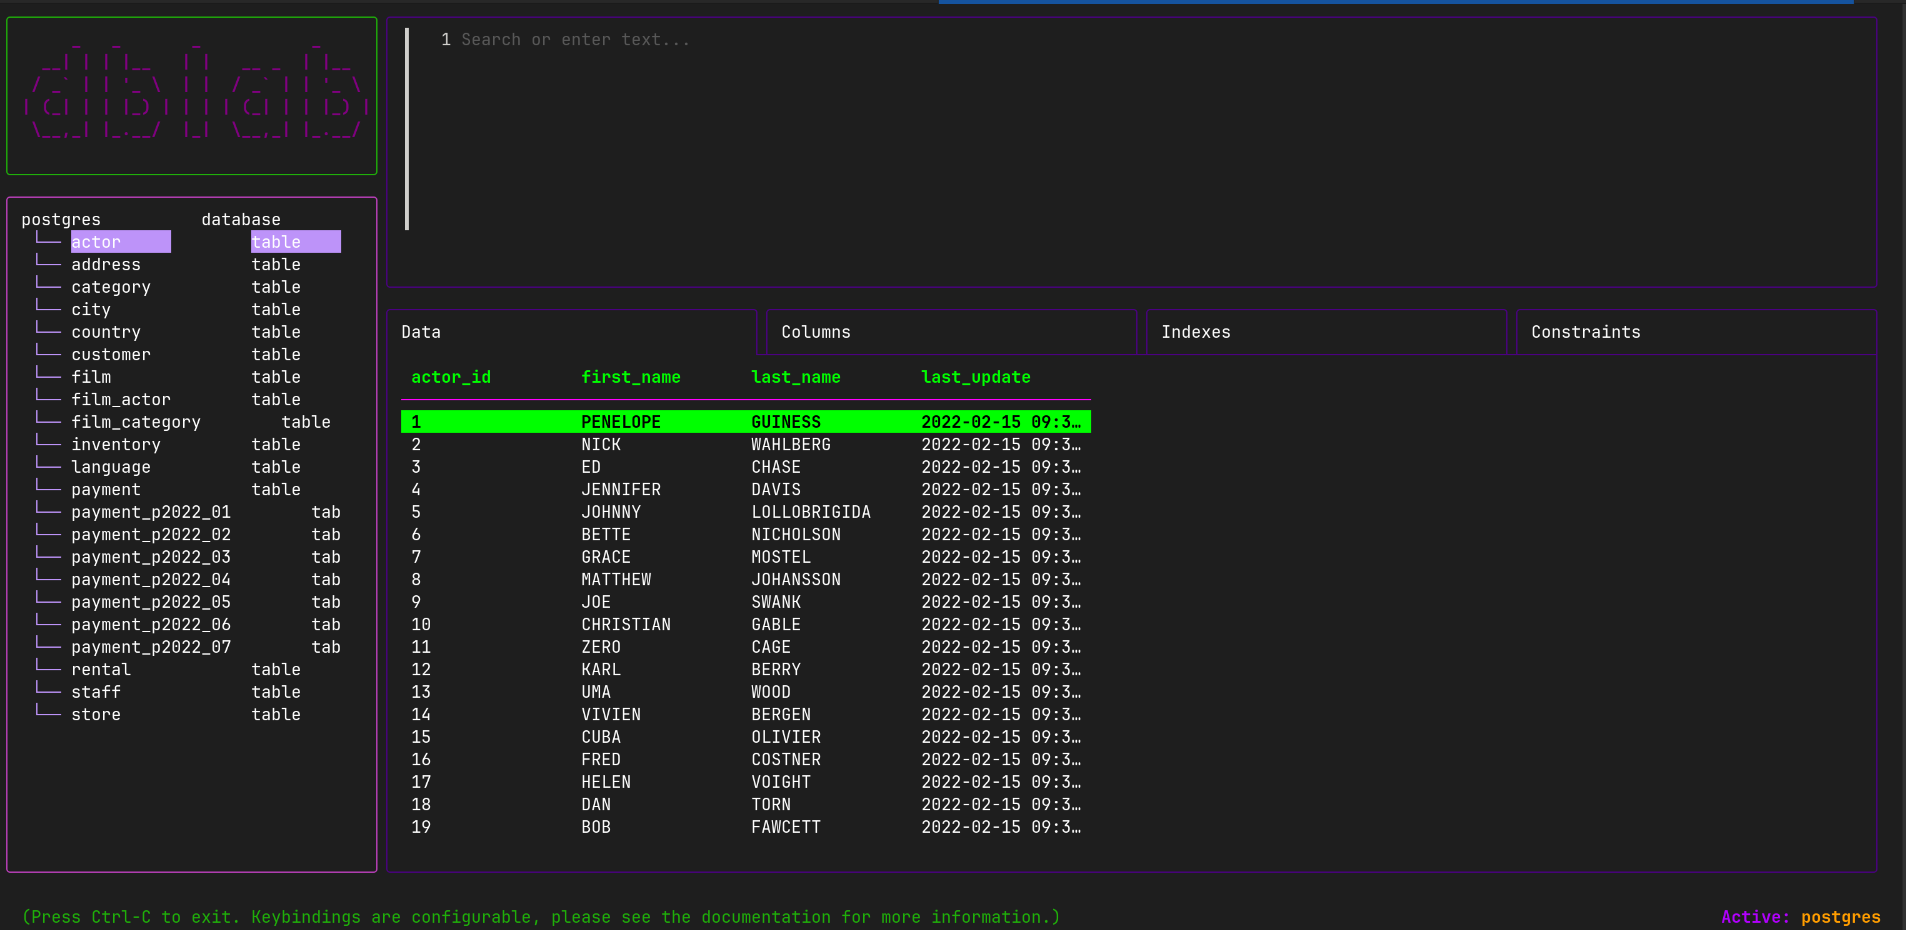
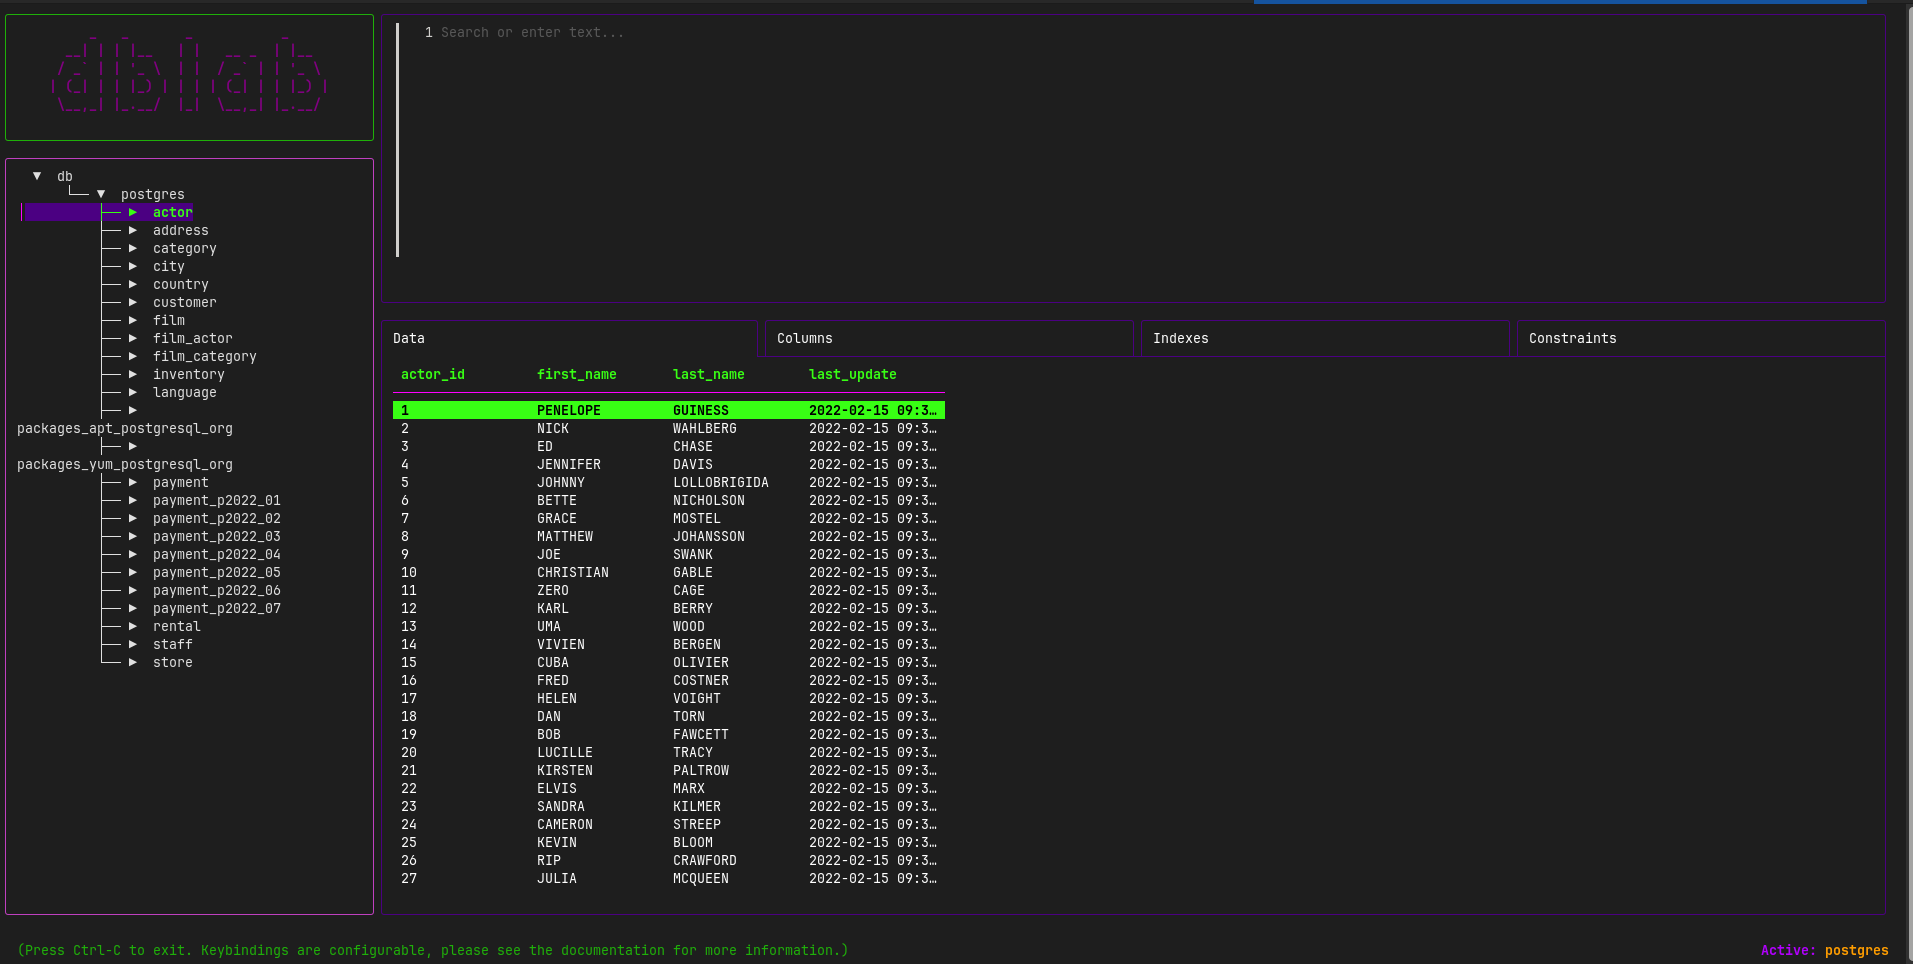
feat: migrate to treeview (#296)
* migrate to treeview

* fix error not checked errors

* omit type at sideViewContent declaration

* add icons

* update tree image

* remove a comment

Changed region(s): [[0.0, 0.0, 1.0, 0.9978], [0.1238, 0.7172, 0.1548, 0.7796]]

diff --git a/pkg/bubbletui/bubbletui.go b/pkg/bubbletui/bubbletui.go
@@ -1,10 +1,12 @@
 package bubbletui
 
 import (
+	"context"
 	"fmt"
 	"io"
 	"strings"
 
+	"github.com/Digital-Shane/treeview"
 	"github.com/charmbracelet/bubbles/key"
 	"github.com/charmbracelet/bubbles/list"
 	"github.com/charmbracelet/bubbles/table"
@@ -15,7 +17,6 @@ import (
 	"github.com/common-nighthawk/go-figure"
 	"github.com/danvergara/dblab/pkg/client"
 	"github.com/danvergara/dblab/pkg/command"
-	"github.com/savannahostrowski/tree-bubble"
 )
 
 type focusState int
@@ -211,8 +212,8 @@ type Model struct {
 	viewport        viewport.Model
 	editor          textarea.Model
 	tablesList      list.Model
-	dbTree          tree.Model
 	sidebarViewport viewport.Model
+	dbTree          *treeview.TuiTreeModel[string]
 
 	// Manages the focus on the app.
 	focus focusState
@@ -280,7 +281,7 @@ func (m Model) Update(msg tea.Msg) (tea.Model, tea.Cmd) {
 		m.titleHeight = availableHeight/6 - 2
 		m.titleWidth = m.leftWidth - 2
 
-		m.sidebarViewportHeight = availableHeight - m.titleHeight - 4
+		m.sidebarViewportHeight = availableHeight - m.titleHeight - 2
 		m.sidebarViewportWidth = m.leftWidth - 2
 
 		m.editorWidth = m.rightWidth - 4
@@ -290,7 +291,9 @@ func (m Model) Update(msg tea.Msg) (tea.Model, tea.Cmd) {
 		m.resultSetWidth = m.rightWidth - 4
 
 		m.tablesList.SetSize(m.sidebarViewportWidth, m.sidebarViewportHeight-2)
-		m.dbTree.SetSize(m.sidebarViewportWidth, m.sidebarViewportHeight-2)
+		if m.dbTree != nil {
+			m.dbTree = m.newTuiTreeModel(m.dbTree.Tree, m.sidebarViewportWidth, m.sidebarViewportHeight-2)
+		}
 
 		m.sidebarViewport.Height = m.sidebarViewportHeight - 4
 		m.sidebarViewport.Width = m.sidebarViewportWidth - 4
@@ -298,9 +301,7 @@ func (m Model) Update(msg tea.Msg) (tea.Model, tea.Cmd) {
 		m.editor.SetWidth(m.editorWidth - 4)
 		m.editor.SetHeight(m.editorHeight - 2)
 
-		if m.c.ShowDataCatalog() {
-			m.sidebarViewport.SetContent(m.dbTree.View())
-		} else {
+		if !m.c.ShowDataCatalog() {
 			m.sidebarViewport.SetContent(m.tablesList.View())
 		}
 
@@ -320,27 +321,22 @@ func (m Model) Update(msg tea.Msg) (tea.Model, tea.Cmd) {
 		case tea.KeyEnter:
 			if m.focus == focusList {
 				if m.c.ShowDataCatalog() {
-					cursor := m.dbTree.Cursor()
-					nodes := m.dbTree.Nodes()
-					path := getPathToCursor(nodes, cursor)
-					if len(path) == 0 {
-						return m, nil
-					}
-					targetNode := path[len(path)-1]
-
-					switch targetNode.Desc {
-					case "database":
-						m.c.SetActiveDatabase(targetNode.Value)
-						m.activeDatabase = targetNode.Value
-						if len(targetNode.Children) == 0 {
-							return m, m.fetchTablesCmd(targetNode.Value)
-						} else {
-							currentNodes := m.dbTree.Nodes()
-							updatedNodes := injectTablesIntoTree(currentNodes, targetNode.Value, []string{})
-							m.dbTree.SetNodes(updatedNodes)
+					selectedNode := m.dbTree.GetFocusedNode()
+					if selectedNode != nil && selectedNode.Data() != nil {
+						switch *selectedNode.Data() {
+						case "database":
+							m.c.SetActiveDatabase(selectedNode.Name())
+							m.activeDatabase = selectedNode.Name()
+							if selectedNode.IsExpanded() {
+								selectedNode.Collapse()
+								return m, nil
+							} else {
+								selectedNode.Expand()
+								return m, m.fetchTablesCmd(selectedNode.Name())
+							}
+						case "table":
+							return m, m.runTableMetadata(selectedNode.Name())
 						}
-					case "table":
-						return m, m.runTableMetadata(targetNode.Value)
 					}
 				} else {
 					return m, m.runTableMetadata("")
@@ -399,11 +395,16 @@ func (m Model) Update(msg tea.Msg) (tea.Model, tea.Cmd) {
 		case key.Matches(msg, m.bindings.PageTop):
 			if m.focus == focusList {
 				if m.c.ShowDataCatalog() {
-					for m.dbTree.Cursor() > 0 {
-						m.dbTree, _ = m.dbTree.Update(tea.KeyMsg{Type: tea.KeyUp})
-					}
+					ctx := context.Background()
 
-					m.syncTreeToViewport()
+					for nodeInfo, err := range m.dbTree.AllVisible(ctx) {
+						if err != nil {
+							break
+						}
+
+						_, _ = m.dbTree.SetFocusedID(ctx, nodeInfo.Node.ID())
+						break
+					}
 					return m, nil
 				} else {
 					m.tablesList.Select(0)
@@ -422,12 +423,23 @@ func (m Model) Update(msg tea.Msg) (tea.Model, tea.Cmd) {
 			}
 			if m.focus == focusList {
 				if m.c.ShowDataCatalog() {
-					totalNodes := m.dbTree.NumberOfNodes()
-					if totalNodes > 0 {
-						m.dbTree.SetCursor(totalNodes - 1)
+					ctx := context.Background()
+
+					var bottomNodeID string
+					var found bool
+
+					for nodeInfo, err := range m.dbTree.AllVisible(ctx) {
+						if err != nil {
+							break
+						}
+
+						bottomNodeID = nodeInfo.Node.ID()
+						found = true
 					}
 
-					m.syncTreeToViewport()
+					if found {
+						_, _ = m.dbTree.SetFocusedID(ctx, bottomNodeID)
+					}
 					return m, nil
 				} else {
 					totalItems := len(m.tablesList.Items())
@@ -453,9 +465,13 @@ func (m Model) Update(msg tea.Msg) (tea.Model, tea.Cmd) {
 		switch m.focus {
 		case focusList:
 			if m.c.ShowDataCatalog() {
-				m.dbTree, cmd = m.dbTree.Update(msg)
-				m.sidebarViewport.SetContent(m.dbTree.View())
-				m.syncTreeToViewport()
+				if m.dbTree != nil {
+					updatedModel, treeCmd := m.dbTree.Update(msg)
+					if newTreeModel, ok := updatedModel.(*treeview.TuiTreeModel[string]); ok {
+						m.dbTree = newTreeModel
+					}
+					cmd = treeCmd
+				}
 			} else {
 				m.tablesList, cmd = m.tablesList.Update(msg)
 				m.sidebarViewport.SetContent(m.tablesList.View())
@@ -511,15 +527,20 @@ func (m Model) Update(msg tea.Msg) (tea.Model, tea.Cmd) {
 		m.viewport.SetContent(styledError)
 		m.viewport.GotoTop()
 	case tablesFetchedMsg:
-		currentNodes := m.dbTree.Nodes()
-		updatedNodes := injectTablesIntoTree(currentNodes, msg.dbName, msg.tables)
-		m.dbTree.SetNodes(updatedNodes)
-		m.sidebarViewport.SetContent(m.dbTree.View())
+		selectedNode := m.dbTree.GetFocusedNode()
+		if selectedNode != nil {
+			tables := make([]*treeview.Node[string], len(msg.tables))
+			for i, t := range msg.tables {
+				tables[i] = treeview.NewNode(t, t, "table")
+			}
+			selectedNode.SetChildren(tables)
+		}
 	case tablesFetchError:
 		errorText := fmt.Sprintf("❌ failed to retrieve the current database tables\n\n%s", msg.err.Error())
 		styledError := errorStyle.Render(errorText)
 		m.viewport.SetContent(styledError)
 		m.viewport.GotoTop()
+
 	}
 
 	return m, tea.Batch(cmds...)
@@ -578,7 +599,11 @@ func (m Model) View() string {
 		Align(lipgloss.Center).
 		Render(tightBlock)
 
-	styledTableList := tablesListStyle.BorderForeground(listBorder).Width(m.sidebarViewportWidth).Height(m.sidebarViewportHeight - 2).Render(m.sidebarViewport.View())
+	sideViewContent := m.sidebarViewport.View()
+	if m.c.ShowDataCatalog() {
+		sideViewContent = m.dbTree.View()
+	}
+	styledTableList := tablesListStyle.BorderForeground(listBorder).Width(m.sidebarViewportWidth).Height(m.sidebarViewportHeight - 2).Render(sideViewContent)
 
 	styledEditor := editorStyle.BorderForeground(textAreaBorder).Width(m.editorWidth).Height(m.editorHeight).Render(m.editor.View())
 	styledResultSet := resultSetStyle.BorderForeground(tableBorder).Width(m.resultSetWidth).Height(m.resultSetHeight).UnsetBorderTop()
@@ -726,23 +751,18 @@ func (m *Model) setupDatabaseCatalog() error {
 		if err != nil {
 			return err
 		}
-		nodes := make([]tree.Node, len(dbs))
-		for i, db := range dbs {
-			nodes[i] = tree.Node{Value: db, Desc: "database"}
+		root := treeview.NewNode("db", "db", "root")
+		for _, db := range dbs {
+			root.AddChild(treeview.NewNode(db, db, "database"))
 		}
 
-		m.dbTree = tree.New(nodes, m.sidebarViewportWidth, m.sidebarViewportHeight)
+		root.Expand()
 
-		// Override the Down binding.
-		m.dbTree.KeyMap.Down = key.NewBinding(
-			key.WithKeys("down", "j", "s"),
-			key.WithHelp("↓/j/s", "move down"),
-		)
+		treeRoot := treeview.NewTree([]*treeview.Node[string]{root}, treeview.WithProvider(createCyberpunkProvider()))
 
-		// Override the Up binding.
-		m.dbTree.KeyMap.Up = key.NewBinding(
-			key.WithKeys("up", "k", "w"),
-			key.WithHelp("↑/k/w", "move up"),
+		m.dbTree = treeview.NewTuiTreeModel(treeRoot,
+			treeview.WithTuiWidth[string](0),
+			treeview.WithTuiHeight[string](80),
 		)
 	} else {
 		ts, err := m.c.ShowTables()
@@ -868,16 +888,19 @@ func (m *Model) fetchTablesCmd(dbName string) tea.Cmd {
 	}
 }
 
-func (m *Model) syncTreeToViewport() {
-	m.sidebarViewport.SetContent(m.dbTree.View())
+func (m *Model) newTuiTreeModel(tree *treeview.Tree[string], width, height int) *treeview.TuiTreeModel[string] {
+	// Create custom key map to avoid key conflicts
+	keyMap := treeview.DefaultKeyMap()
+	keyMap.SearchStart = []string{"/"}
+	keyMap.Up = []string{"up", "k", "w"}
+	keyMap.Down = []string{"down", "j", "s"}
 
-	cursor := m.dbTree.Cursor()
-	if cursor >= m.sidebarViewport.YOffset+m.sidebarViewport.Height {
-		m.sidebarViewport.SetYOffset(cursor - m.sidebarViewport.Height + 1)
-	}
-	if cursor < m.sidebarViewport.YOffset {
-		m.sidebarViewport.SetYOffset(cursor)
-	}
+	return treeview.NewTuiTreeModel(tree,
+		treeview.WithTuiWidth[string](width),
+		treeview.WithTuiHeight[string](height),
+		treeview.WithTuiKeyMap[string](keyMap),
+		treeview.WithTuiDisableNavBar[string](true),
+	)
 }
 
 func populateTableHeaders(headers []string) []table.Column {
@@ -912,57 +935,27 @@ func populateTableRows(data [][]string) []table.Row {
 	return convertedRows
 }
 
-// getPathToCursor returns the full path of nodes from the Root down to the Cursor position.
-func getPathToCursor(nodes []tree.Node, targetCursor int) []tree.Node {
-	var currentPath []tree.Node
-	var currentIndex int
+func createCyberpunkProvider() *treeview.DefaultNodeProvider[string] {
+	return treeview.NewDefaultNodeProvider(
+		treeview.WithIconRule(treeview.PredIsExpanded[string](), "▼"),
+		treeview.WithDefaultIcon[string]("▶"),
+		treeview.WithStyleRule(
+			func(n *treeview.Node[string]) bool { return true },
+			lipgloss.NewStyle().
+				Foreground(whiteText).
+				PaddingLeft(2),
 
-	var traverse func(currentNodes []tree.Node) bool
-
-	traverse = func(currentNodes []tree.Node) bool {
-		for _, node := range currentNodes {
-			currentPath = append(currentPath, node)
-
-			if currentIndex == targetCursor {
-				return true
-			}
-
-			currentIndex++
-
-			if len(node.Children) > 0 {
-				if traverse(node.Children) {
-					return true // The target was found deep inside this branch
-				}
-			}
-
-			currentPath = currentPath[:len(currentPath)-1]
-		}
-		return false
-	}
-
-	traverse(nodes)
-	return currentPath
-}
-
-// injectTablesIntoTree traverses the graph to find a not which is the database of interest to add tables to it.
-func injectTablesIntoTree(nodes []tree.Node, targetDB string, tables []string) []tree.Node {
-	for i := range nodes {
-
-		if nodes[i].Desc == "database" && nodes[i].Value == targetDB {
-
-			var newChildren []tree.Node
-			for _, tableName := range tables {
-				newChildren = append(newChildren, tree.Node{
-					Value: tableName,
-					Desc:  "table",
-				})
-			}
-
-			nodes[i].Children = newChildren
-
-			break
-		}
-	}
-
-	return nodes
+			lipgloss.NewStyle().
+				Foreground(cyberGreen).
+				Background(darkPurple).
+				Bold(true).
+				BorderStyle(lipgloss.NormalBorder()).
+				BorderLeft(true).
+				BorderForeground(hiMagenta).
+				PaddingLeft(1),
+		),
+		treeview.WithFormatter[string](func(node *treeview.Node[string]) (string, bool) {
+			return node.Name(), true
+		}),
+	)
 }
